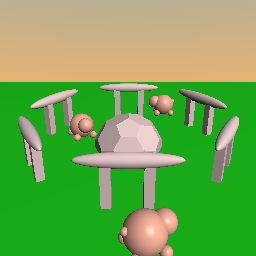
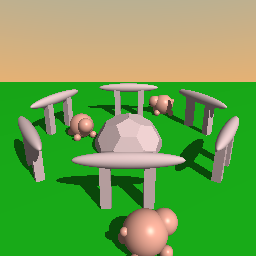
done unique scene

diff --git a/A4/A4.cpp b/A4/A4.cpp
@@ -19,6 +19,8 @@ vec3 ray_trace(Ray &ray, SceneNode *root, const glm::vec3 & ambient,
 		// get colour of the closet object
 		PhongMaterial *material = static_cast<PhongMaterial *>(rec.material);
 
+		if (!(rec.texture || material)) goto noIntersection;
+
 		vec3 kd = rec.texture ? rec.texture->colour(rec.u, rec.v) : material->kd();
 		vec3 ks = rec.texture ? rec.texture->colour(rec.u, rec.v) : material->ks();
 
@@ -57,8 +59,10 @@ vec3 ray_trace(Ray &ray, SceneNode *root, const glm::vec3 & ambient,
 			
 			colour += light->colour * (kd + ks * vDotRPow / nDotL) * nDotL / attenuation;
 		}
-		
-	} else {
+		return colour;
+	} 
+	noIntersection:
+	{
 		// use ray direction 
 		vec3 direc = normalize(ray.getDirection());
 		// up blue down orange
@@ -119,7 +123,6 @@ void A4_Render(
 	// get the vector pointing to bottom left corner of the screen
 	vec3 bot_left_direction = z * d_norm - x * (w/2) - y * (h/2);
 
-	std::cout << to_string(bot_left_direction) <<std::endl;
 	// colouring every pixel in the screen
 	for (uint j=0; j<h; j++){
 		for (uint i=0; i<w; i++){

diff --git a/A4/Texture.cpp b/A4/Texture.cpp
@@ -20,14 +20,16 @@ Texture::Texture(const std::string &fname)
 }
 
 glm::vec3 Texture::colour(double u, double v){
-    if (!(0 <= u && u <= 1)) std::cerr << "No u" << std::endl;
-    if (!(0 <= v && v <= 1)) std::cerr << "No v" << std::endl;
+    // if (!(0 <= u && u <= 1)) std::cerr << "No u" << std::endl;
+    // if (!(0 <= v && v <= 1)) std::cerr << "No v" << std::endl;
+
     int ix = (int)(u*(m_width-1));
     int iy = (int)(v*(m_height-1));
 
     // std::cout << ix << "," << iy << std::endl;
 
     unsigned long pos = (m_width * iy + ix) * 3;
+
 
     return vec3(image[pos]/255.0, image[pos+1]/255.0, image[pos+2]/255.0);
 }

diff --git a/A4/Mesh.cpp b/A4/Mesh.cpp
@@ -148,6 +148,15 @@ std::ostream &operator<<(std::ostream &out, const Mesh &mesh)
   return out;
 }
 
+void Mesh::get_uv(HitRecord &rec) {
+  if (fname == "plane.obj") {
+    
+    rec.u = (rec.p.x + 1)/ 2;
+    rec.v = (rec.p.z + 1)/ 2;
+    // std::cout << rec.u << " " << rec.v << std::endl;
+  }
+}
+
 bool Mesh::intersected(Ray &ray, float tmin, float tmax, HitRecord &rec)
 {
   bool isIntersected = false;
@@ -182,6 +191,8 @@ bool Mesh::intersected(Ray &ray, float tmin, float tmax, HitRecord &rec)
     rec.t = tClosest;
     rec.p = ray.at(rec.t);
     rec.normal = normal;
+
+    get_uv(rec);
   }
   
   return isIntersected;

diff --git a/A4/Mesh.hpp b/A4/Mesh.hpp
@@ -5,6 +5,7 @@
 #include <vector>
 #include <iosfwd>
 #include <string>
+#include "HitRecord.hpp"
 
 #include <glm/glm.hpp>
 
@@ -37,6 +38,7 @@ public:
   virtual ~Mesh();
 
   bool intersected(Ray &ray, float tmin, float tmax, HitRecord &rec) override;
+  void get_uv(HitRecord &rec);
   
 private:
 	std::vector<glm::vec3> m_vertices;

diff --git a/A4/GeometryNode.cpp b/A4/GeometryNode.cpp
@@ -46,7 +46,6 @@ void GeometryNode::setTexture( Texture *texture )
 	//     throw away all your data.  A memory leak won't build up and
 	//     crash the program.
 
-	std::cout << texture->fname << std::endl;
 	m_texture = texture;
 }
 
